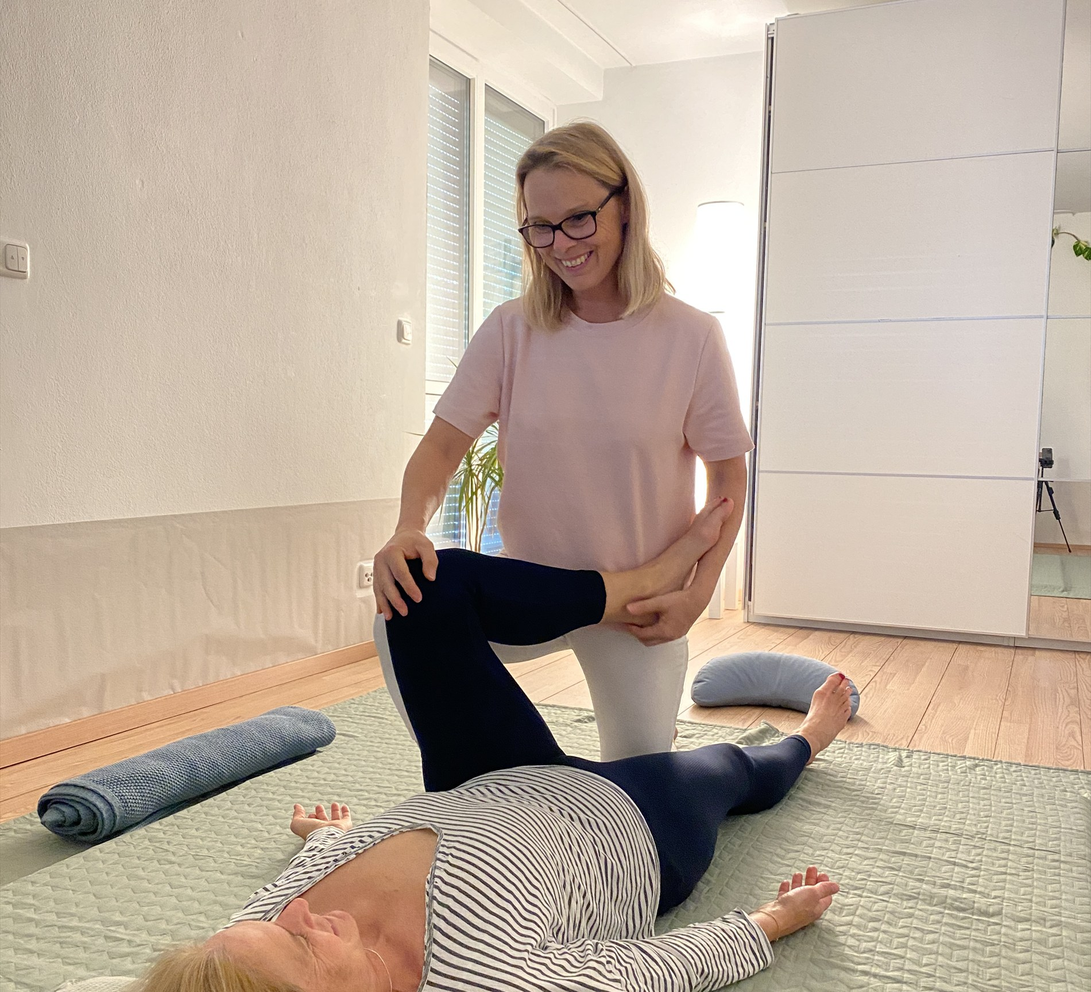
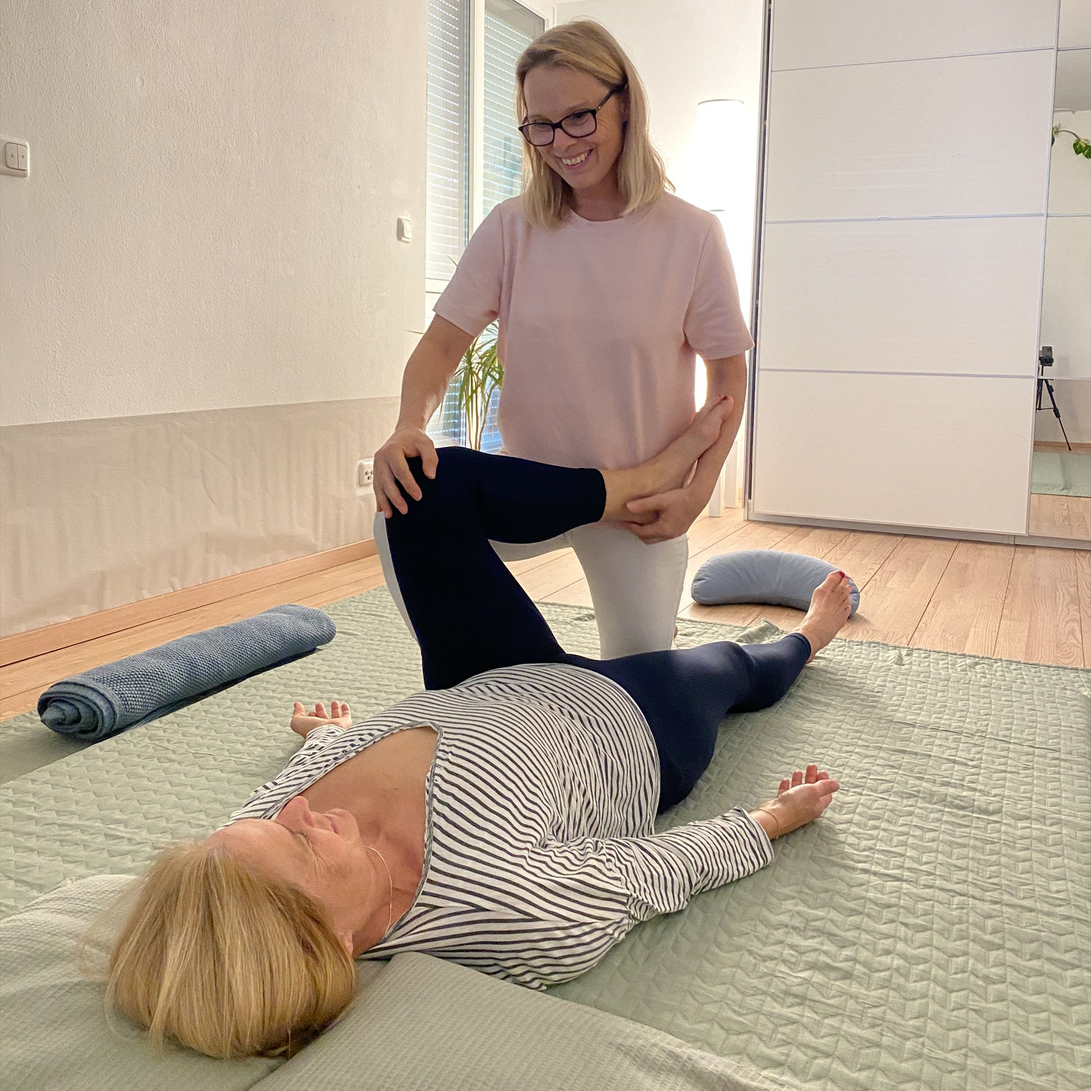
Flyer: crops keep the client and hands, crop from the top instead
- Front: full client incl. head (taller photo anchored at the bottom),
  logo moved onto the photo to make room
- Back: less window, more client, Helena's head kept
- Yoga thumbnail keeps the hands
- Spacing between yoga row and booking box

diff --git a/print/flyer-a5-de.html b/print/flyer-a5-de.html
@@ -33,18 +33,19 @@
   @media print{ html, body{ background:none; } }
 
   /* Front */
-  .front-photo{ position:absolute; inset:0 0 auto 0; height:136mm; background: url(img-front-massage.jpg) center 20% / cover no-repeat; }
-  .front-photo::after{ content:""; position:absolute; inset:auto 0 0 0; height:26mm; background: linear-gradient(to bottom, rgba(251,244,239,0), var(--bg)); }
-  .front-body{ position:absolute; inset:126mm 0 0 0; padding: 0 14mm 12mm; display:flex; flex-direction:column; }
+  .front-photo{ position:absolute; inset:0 0 auto 0; height:150mm; background: url(img-front-massage.jpg) center bottom / cover no-repeat; }
+  .front-photo::after{ content:""; position:absolute; inset:auto 0 0 0; height:9mm; background: linear-gradient(to bottom, rgba(251,244,239,0), var(--bg)); }
+  .front-body{ position:absolute; inset:148mm 0 0 0; padding: 0 14mm 11mm; display:flex; flex-direction:column; }
+  .front-brand{ position:absolute; top:11mm; left:12mm; display:flex; align-items:center; gap:3mm; padding: 2mm 4mm 2mm 2mm; border-radius:4mm; background: rgba(251,244,239,.88); }
   .brand{ display:flex; align-items:center; gap:3mm; }
   .brand-mark{ width:11mm; height:11mm; border-radius:3mm; background:var(--grad); display:flex; align-items:center; justify-content:center; }
   .brand-mark img{ width:6.4mm; }
   .brand-name{ font-family:var(--serif); font-weight:600; font-size:6.4mm; }
   .brand-name span{ color: var(--accent-1); }
-  .kicker{ margin-top:5mm; font-size:3mm; letter-spacing:.16em; text-transform:uppercase; color: var(--accent-1); font-weight:700; }
-  h1{ font-family:var(--serif); font-weight:600; font-size:9.6mm; line-height:1.08; margin: 1.6mm 0 3mm; }
+  .kicker{ margin-top:2mm; font-size:3mm; letter-spacing:.16em; text-transform:uppercase; color: var(--accent-1); font-weight:700; }
+  h1{ font-family:var(--serif); font-weight:600; font-size:9mm; line-height:1.06; margin: 1.4mm 0 2.4mm; }
   h1 em{ font-style:italic; font-weight:500; color: var(--accent-1); }
-  .lede{ font-size:3.7mm; line-height:1.5; color: var(--ink-soft); margin:0; }
+  .lede{ font-size:3.5mm; line-height:1.5; color: var(--ink-soft); margin:0; }
   .lede strong{ color: var(--ink); }
   .front-foot{ margin-top:auto; display:flex; justify-content:space-between; align-items:flex-end; font-size:3.4mm; color: var(--ink-soft); }
   .front-foot strong{ color: var(--ink); font-size:4mm; }
@@ -52,13 +53,13 @@
   /* Back */
   .back{ padding: 13mm 14mm 12mm; display:flex; flex-direction:column; }
   .eyebrow{ font-size:3mm; letter-spacing:.16em; text-transform:uppercase; color: var(--accent-1); font-weight:700; }
-  h2{ font-family:var(--serif); font-weight:600; font-size:7.4mm; line-height:1.1; margin: 1.6mm 0 4mm; }
-  .back-photo{ width:100%; height:58mm; border-radius:4mm; background: url(img-massage-room.jpg) center 40% / cover no-repeat; }
-  .points{ list-style:none; margin: 4.5mm 0 0; padding:0; }
+  h2{ font-family:var(--serif); font-weight:600; font-size:7.2mm; line-height:1.1; margin: 1.4mm 0 3.4mm; }
+  .back-photo{ width:100%; height:65mm; border-radius:4mm; background: url(img-massage-room.jpg) center 35% / cover no-repeat; flex:none; }
+  .points{ list-style:none; margin: 3.6mm 0 0; padding:0; }
   .points li{ position:relative; padding-left:5mm; font-size:3.4mm; line-height:1.5; margin-bottom:1.6mm; }
   .points li::before{ content:""; position:absolute; left:0; top:1.4mm; width:2mm; height:2mm; border-radius:50%; background: var(--grad); }
   .points b{ font-weight:700; }
-  .yoga{ display:flex; gap:4mm; align-items:center; margin-top:3.5mm; padding-top:3.5mm; border-top:0.3mm solid var(--line); }
+  .yoga{ display:flex; gap:4mm; align-items:center; margin: 3mm 0 4.5mm; padding-top:3mm; border-top:0.3mm solid var(--line); }
   .yoga img{ width:19mm; height:19mm; border-radius:3mm; object-fit:cover; flex:none; }
   .yoga-title{ font-family:var(--serif); font-weight:600; font-size:4.4mm; }
   .yoga-title span{ font-family:var(--sans); font-weight:600; font-size:3.2mm; color: var(--ink-soft); }
@@ -67,7 +68,7 @@
     margin-top:auto; display:flex; gap:4.5mm; align-items:center; padding: 4.5mm;
     border-radius: 4mm; background: linear-gradient(135deg, #7A2A1D, var(--accent-1) 60%, var(--accent-2)); color:#fff;
   }
-  .book img{ width:24mm; height:24mm; border-radius:2mm; background:#fff; padding:1mm; flex:none; }
+  .book img{ width:22mm; height:22mm; border-radius:2mm; background:#fff; padding:1mm; flex:none; }
   .book-title{ font-family:var(--serif); font-weight:600; font-size:5.6mm; line-height:1.15; }
   .book p{ margin: 1.2mm 0 0; font-size:3.2mm; line-height:1.45; opacity:.95; }
   .book .url{ font-weight:700; font-size:4.1mm; margin-top:1.6mm; opacity:1; }
@@ -81,11 +82,11 @@
 
 <section class="page front">
   <div class="front-photo"></div>
+  <div class="front-brand">
+    <span class="brand-mark"><img src="../images/icon-mark-white.svg" alt=""></span>
+    <span class="brand-name">LagOHM<span>.</span></span>
+  </div>
   <div class="front-body">
-    <div class="brand">
-      <span class="brand-mark"><img src="../images/icon-mark-white.svg" alt=""></span>
-      <span class="brand-name">LagOHM<span>.</span></span>
-    </div>
     <div class="kicker">Thai Yoga-Massage · München-Harlaching</div>
     <h1>Ankommen. Loslassen.<br><em>Bei dir sein.</em></h1>
     <p class="lede">Achtsame Körperarbeit aus Thai Yoga-Massage und Shiatsu – bekleidet auf der Matte, <strong>individuell auf dich abgestimmt</strong>, für tiefe Entspannung von Körper und Nervensystem.</p>
